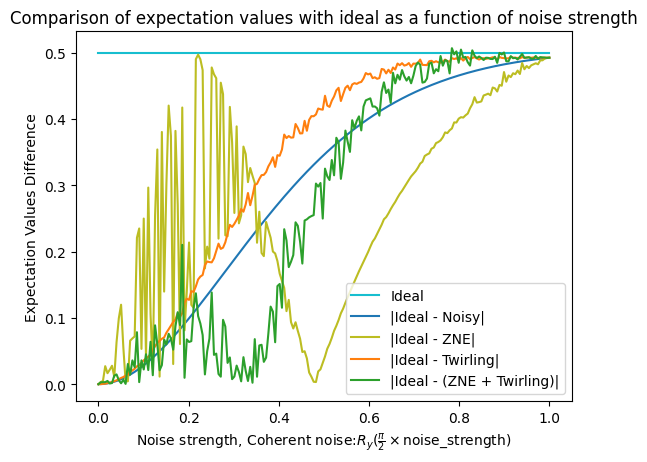
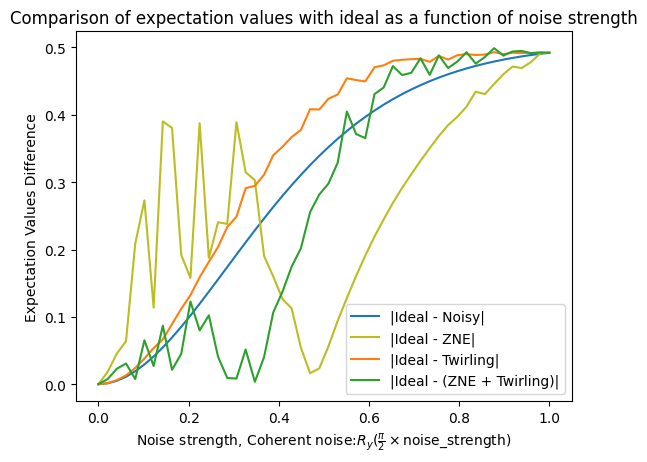
nate/alessandro feedback

diff --git a/docs/source/examples/pt_zne.md b/docs/source/examples/pt_zne.md
@@ -13,34 +13,39 @@ kernelspec:
 
 ```{tags} cirq, zne, pt, basic
 ```
-# ZNE with Noise Tailoring
+# Zero-Noise Extrapolation with Pauli Twirling
 
-This tutorial helps us understand the cases when noise tailoring is helpful for improving the performance of 
-quantum error mitigation techniques. 
+This tutorial explores how noise tailoring can improve the effectiveness of quantum error mitigation techniques.
+Specifically, we analyze how converting coherent noise into incoherent noise through Pauli Twirling impacts the performance of [Zero-Noise Extrapolation](../guide/zne.md) (ZNE).
 
-We will
+In this tutorial, we will:
 
-- compare coherent noise to incoherent noise
-- Pauli twirl coherent noise to be incoherent
-- compare the performance of [Zero-Noise Extrapolation](../guide/zne.md) (ZNE)
-on its own and in combination with [Pauli Twirling](../guide/pt.md) (PT) when the circuit is subjected to coherent noise
+1. Define and compare coherent and incoherent noise
+2. Apply Pauli Twirling to transform coherent noise into incoherent noise
+3. Compare the performance of ZNE
+    1. on its own, and
+    2. in combination with [Pauli Twirling](../guide/pt.md)
+
+By the end of the example, you will understand when and how noise tailoring can enhance quantum error mitigation.
 
 ## Coherent noise vs. Incoherent noise
 
-**Coherent noise** is a reversible process as long as the noisy unitary transformation is known beforehand which is not always the case. These types of noise maintain the purity of the state. But in a quantum circuit, they are easily carried across the circuit such that they scale up quadratically. Dealing with coherent noise requires a large resource overhead.  
+Noise on quantum devices can broadly categorized into two types: Coherent, Incoherent. Each has different properties that can be 
 
-**Incoherent noise** is a process that entangles the quantum system with its environment i.e. this type of noise is irreversible. The system and the environment are in a mixed state. It scales linearly in the small error limit. 
-The noise channel can be described using Pauli operators which makes it easy to analyze and simulate. Worst case error rate is directly proportional to the **average gate infidelity**. 
+**Coherent noise** is a reversible process as long as the noisy unitary transformation is known beforehand which is not always the case. These types of noise maintain the purity of the state. But in a quantum circuit subjected to coherent noise, the errors are easily carried across the circuit. This can be discerned through the **average gate infidelity** $r(\mathcal{E})$. When coherent errors contribute to a portion of the total error-rate, the worst case infidelity can scale as $\sqrt{r(\mathcal{E})}$ {cite}`Wallman_2014` which in turn reduces the performance of a quantum device by orders of magnitude. Thus, dealing with coherent noise requires a large resource overhead to acquire inferred knowledge of the noise unitaries which can then be used to reverse the effects.
 
 ```{note}
 If $\mathcal{F}$ is the fidelity defining the success of preparing an arbitrary pure state $\rho$, then
 $1-\mathcal{F}$ is the **average gate infidelity**.
 ```
 
-For example, a depolarizing noise channel is a stochastic noise channel where a noiseless process is probabilistically mixed with orthogonal errors. If $\rho$ is a single qubit state, $p$ is the probabilistic error rate and $\epsilon(\rho)$ is the noise channel:
+**Incoherent noise** is a process that results in the quantum system entangling with its environment i.e. this type of noise is irreversible. The system and the environment end up in a mixed state. It scales linearly in the small error limit. 
+The noise channel can be described using Pauli operators which makes it easy to analyze and simulate. Worst case error rate is directly proportional to the **average gate infidelity**. 
+
+For example, a depolarizing noise channel is a stochastic noise channel where a noiseless process is probabilistically mixed with orthogonal errors. If $\rho$ is a single qubit state, $p$ is the probabilistic error rate and $\mathcal{E}(\rho)$ is the noise channel:
 
 ```{math}
-\epsilon(\rho) = (1-p) \rho + p \frac{I}{2}
+\mathcal{E}(\rho) = (1-p) \rho + p \frac{I}{2}
 ```
 $\frac{I}{2}$ is the maximally mixed state which can be described using Paulis. 
 
@@ -51,33 +56,35 @@ $\frac{I}{2}$ is the maximally mixed state which can be described using Paulis.
 Thus, the depolarizing channel can be redescribed using Paulis as shown below. 
 
 ```{math}
-\epsilon(\rho) = (1-\frac{3p}{4}) \rho + \frac{p}{4} (X \rho X + Y \rho Y + Z \rho Z)
+\mathcal{E}(\rho) = (1-\frac{3p}{4}) \rho + \frac{p}{4} (X \rho X + Y \rho Y + Z \rho Z)
 
 ```
 
 ### Pauli Transfer Matrix
 
-Let $\Lambda(rho)$ be a $n-$qubit noise channel where $K_i$ are the Kraus operators.
+Let $\Lambda(\rho)$ be a $n$-qubit noise channel with $K_i$ being the corresponding Kraus operators.
 
 ```{math}
 
 \Lambda(\rho) = \sum_{i=1} K_i \rho {K_i}^\dagger
 ```
-If $P_i$ and $P_j$ are $n-$qubit Paulis, the following expression defines the entries of a Pauli Transfer Matrix (PTM). Here, 
+If $P_i$ and $P_j$ are $n$-qubit Paulis, the following expression defines the entries of a Pauli Transfer Matrix (PTM). Here, 
 $i$ defines the rows while $j$ defines the columns of the PTM. All entries of the PTM are real and in the interval $[-1, 1]$.
 
 
 ```{math}
 (R_{\Lambda})_{ij} = \frac{1}{2^n} \text{Tr} \{ P_i \Lambda(P_j)\}
 ```
-A PTM allows us to distinguish between the two types of noise. The off-diagonal terms of the PTM are due to the effect of coherent noise while the diagonal terms are due to incoherent noise. PTM of a circuit is a product of the PTM of each layer in the circuit. Due to these, it is straightforward to see how coherent noise carries across different layers in the circuit and how incoherent errors are easier to deal with in the small error limit. 
+A PTM allows us to distinguish between the two types of noise. The off-diagonal terms of the PTM are due to the effect of coherent noise while the diagonal terms are due to incoherent noise. To find the PTM of an entire circuit, we only need to take the product of the PTM of each layer in the circuit. Due to this, it is straightforward to see how coherent noise carries across different layers in the circuit and how incoherent errors are easier to deal with in the small error limit. The latter is due to only focusing on the diagonal terms of the PTM for incoherent noise such that the product of two or more diagonal matrices is also a diagonal matrix.
 
 The known fault tolerant thresholds for stochastic noise are higher than coherent noise which makes the former a 'preferable' type of noise compared to the latter. If we want to not deal with coherent noise, Pauli twirling can be used to tailor coherent noise to incoherent noise. Same as the expression above, when a coherent noise channel is Pauli twirled, the noise channel can be described using Paulis after averaging over multiple Pauli twirled circuits. Refer to the [Pauli Twirling user guide](../guide/pt.md) for additional information. 
+
+It is worth noting that the number of Pauli twirled circuits required to transform coherent noise to incoherent noise differs
+across the circuit used, noise stength, etc. The higher the number of generated twirled circuits, the better the result. Similarly, we get better results from Pauli twirling when the coherent noise strength is closer to the small error limit.
 
 ## Using Pauli Twirling in Mitiq
 
 ```{code-cell} ipython3
-# Utility functions for Pauli Twirling.
 
 import cirq
 import numpy as np
@@ -95,7 +102,7 @@ pauli_unitary_list = [
 ]
 
 
-def _n_qubit_paulis(num_qubits: int) -> list[npt.NDArray[np.complex64]]:
+def n_qubit_paulis(num_qubits: int) -> list[npt.NDArray[np.complex64]]:
     """Get a list of n-qubit Pauli unitaries."""
     if not num_qubits >= 1:
         raise ValueError("Invalid number of qubits provided.")
@@ -115,16 +122,16 @@ def _n_qubit_paulis(num_qubits: int) -> list[npt.NDArray[np.complex64]]:
     return n_qubit_paulis
 
 
-def _pauli_vectorized_list(num_qubits: int) -> list[npt.NDArray[np.complex64]]:
+def pauli_vectorized_list(num_qubits: int) -> list[npt.NDArray[np.complex64]]:
     """Define a function to create a list of vectorized matrices.
 
     If the density matrix of interest has more than n>1 qubits, the
     Pauli group is used to generate n-fold tensor products before
     vectorizing the unitaries.
     """
-    n_qubit_paulis = _n_qubit_paulis(num_qubits)
+    n_qubit_paulis1 = n_qubit_paulis(num_qubits)
     output_pauli_vec_list = []
-    for i in n_qubit_paulis:
+    for i in n_qubit_paulis1:
         # the matrix_to_vector function stacks rows in vec form
         # transpose is used here to instead stack the columns
         matrix_trans = np.transpose(i)
@@ -137,8 +144,8 @@ def ptm_matrix(circuit: Circuit, num_qubits: int) -> npt.NDArray[np.complex64]:
 
     superop = choi_to_super(_circuit_to_choi(circuit))
 
-    vec_pauli = _pauli_vectorized_list(num_qubits)
-    n_qubit_paulis = _n_qubit_paulis(num_qubits)
+    vec_pauli = pauli_vectorized_list(num_qubits)
+    n_qubit_paulis1 = n_qubit_paulis(num_qubits)
     ptm_matrix = np.zeros([4**num_qubits, 4**num_qubits], dtype=complex)
 
     for i in range(len(vec_pauli)):
@@ -151,9 +158,9 @@ def ptm_matrix(circuit: Circuit, num_qubits: int) -> npt.NDArray[np.complex64]:
         )
 
         # ptm_matrix_row = []
-        for j in range(len(n_qubit_paulis)):
+        for j in range(len(n_qubit_paulis1)):
             pauli_superop_pauli = np.matmul(
-                n_qubit_paulis[j], superop_on_pauli_matrix
+                n_qubit_paulis1[j], superop_on_pauli_matrix
             )
             ptm_matrix[j, i] = (0.5**num_qubits) * np.trace(
                 pauli_superop_pauli
@@ -246,8 +253,7 @@ print(circuit)
 
 We are going to add coherent noise to this circuit and then get the error-mitigated expectation value. For a detailed discussion on this, refer to the [ZNE user guide](../guide/zne-1-intro.md). 
 
-As we are using a simulator, we have to make sure the twirling gates are sandwiching the coherent noise channel in the circuit.
-For this, `get_noise_model` is used to add noise to CZ/CNOT gates. See [PT user guide](../guide/pt-1-intro.md) for more. 
+As we are using a simulator, we have to make sure the noise model adds coherent noise to CZ/CNOT gates in our circuit. For this, `get_noise_model` is used to add noise to CZ/CNOT gates. See [PT user guide](../guide/pt-1-intro.md) for more. 
 
 ```{code-cell} ipython3
 from numpy import pi
@@ -321,14 +327,14 @@ print(f"Error with ideal and twirling: {abs(ideal_value - twirled_result) :.3}")
 print(f"Error with ideal and ZNE + PT: {abs(ideal_value - mitigated_result) :.3}")
 
 ```
-Accordingly, depending on the noise strength, a combination of PT and ZNE do not work that well compared to just PT or ZNE. Thus, it is important to understand when combining a noisy tailoring technique with an error mitigation technique only contributes to the resource overhead without providing a significant advantage. 
+Accordingly, depending on the noise strength, a combination of PT and ZNE do not work that well compared to just PT or ZNE. Thus, it is important to understand when combining a noisy tailoring technique with an error mitigation technique provides a significant advantage. 
 
 ```{code-cell} ipython3
 
 import matplotlib.pyplot as plt
 
 # Plot error vs noise strength
-noise_strength = np.linspace(0.0, 1.0, 200)
+noise_strength = np.linspace(0.0, 1.0, 50)
 error_no_zne_no_twirling = []
 error_with_twirling = []
 error_with_twirling_and_zne = []
@@ -358,7 +364,7 @@ for strength in noise_strength:
     mitigated_twirled_result = np.average(zne_pt_vals)
     error_with_twirling_and_zne.append(abs(ideal_value - mitigated_twirled_result))
 
-plt.plot(noise_strength, ideal_values, "", label="Ideal", color="#17becf")   
+
 plt.plot(noise_strength, error_no_zne_no_twirling,"", label=r"|Ideal - Noisy|", color="#1f77b4")
 plt.plot(noise_strength, zne_vals, "", label=r"|Ideal - ZNE|", color="#bcbd22")
 plt.plot(noise_strength, error_with_twirling,"", label=r"|Ideal - Twirling|", color="#ff7f0e")
@@ -369,6 +375,15 @@ plt.ylabel("Expectation Values Difference")
 plt.title("Comparison of expectation values with ideal as a function of noise strength")
 plt.legend()
 plt.show()
+```
+
+As we are plotting the difference between the ideal expectation value and the noisy, error-mitigated and/or noise-tailored
+expectation values, the closer the curve is to `0.0` on the Y-axis, the technique provides an advantage.
+
+
+```{warning}
+You can get better results if you control the number of samples in `noise_strength` in addition to using a higher number for
+`NUM_TWIRLED_VARIANTS`. We have chosen to not do so as this drastically increase the execution time for this tutorial.
 ```
 
 ## Conclusion

diff --git a/docs/source/examples/examples.md b/docs/source/examples/examples.md
@@ -29,7 +29,7 @@ ZNE and CDR with Cirq: 1D Ising Simulation <quantum_simulation_1d_ising.md>
 ZNE with PennyLane + Cirq: Energy of molecular Hydrogen <molecular_hydrogen_pennylane.md>
 ZNE with BQSKit compiled circuits <bqskit.md>
 ZNE on Stim backend with Cirq: Logical randomized benchmarking circuits <zne_logical_rb_cirq_stim.md>
-ZNE and PT with Cirq: ZNE with Noise Tailoring <pt_zne.md>
+ZNE and Pauli Twirling with Cirq: ZNE with Noise Tailoring <pt_zne.md>
 LRE vs ZNE: comparing performance and overhead <lre-zne-comparison.md>
 PEC on a Braket simulator: Mirror circuits <pec_tutorial.md>
 PEC with Cirq: Learning representations <learning-depolarizing-noise.md>
